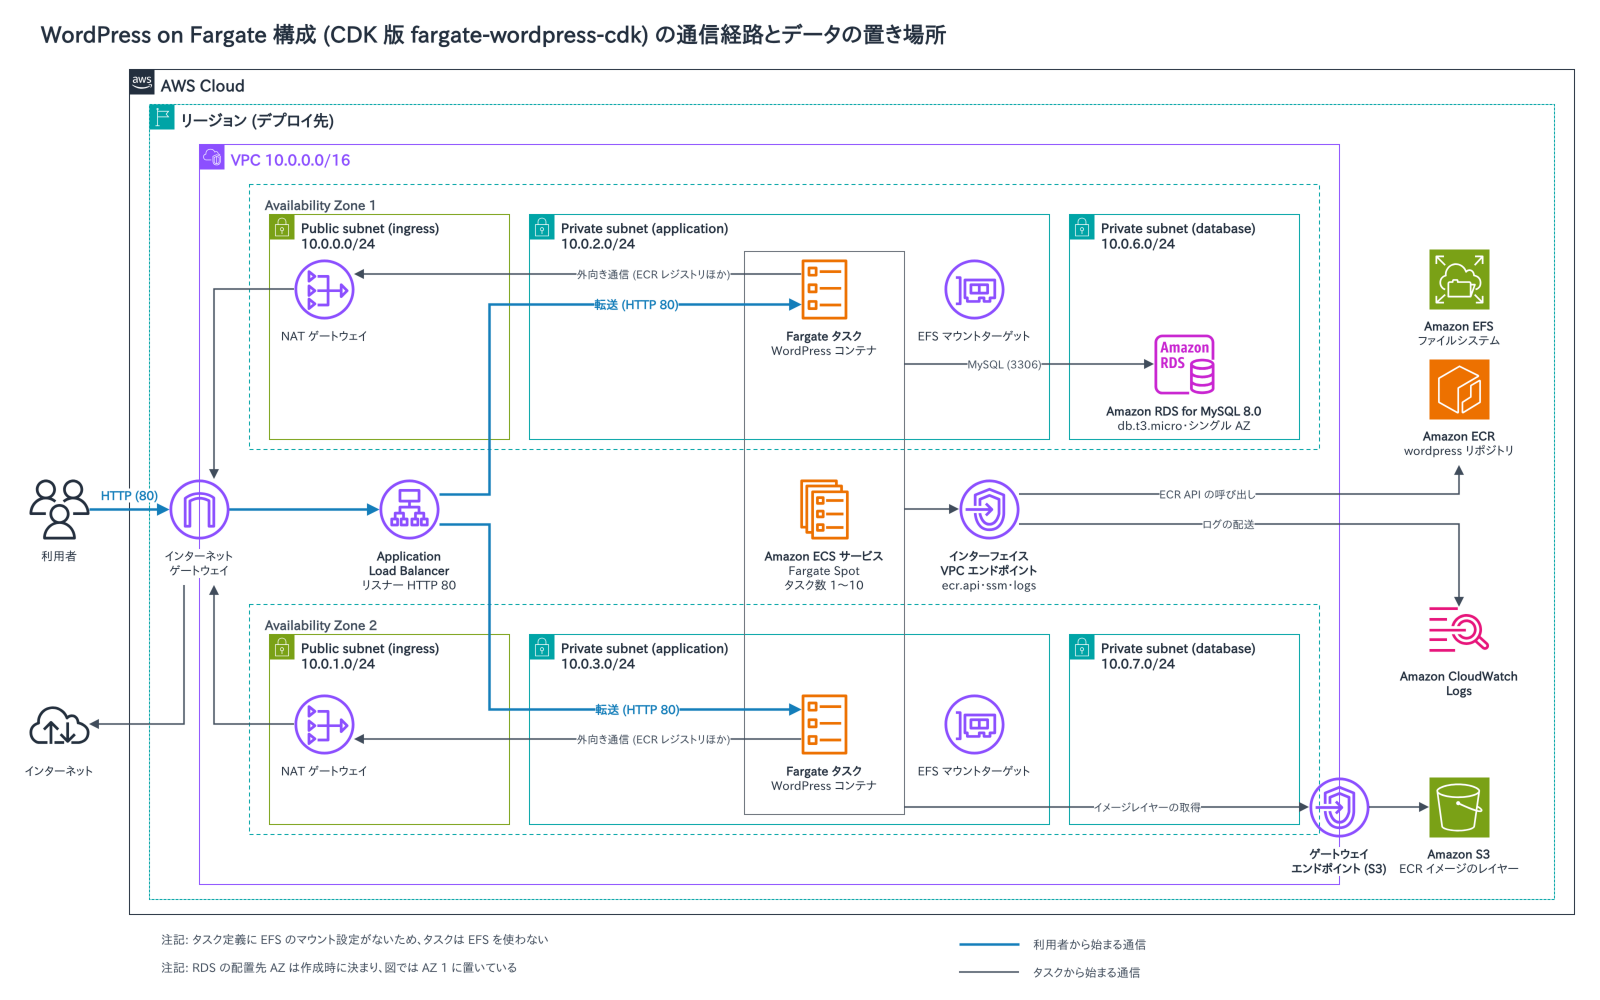
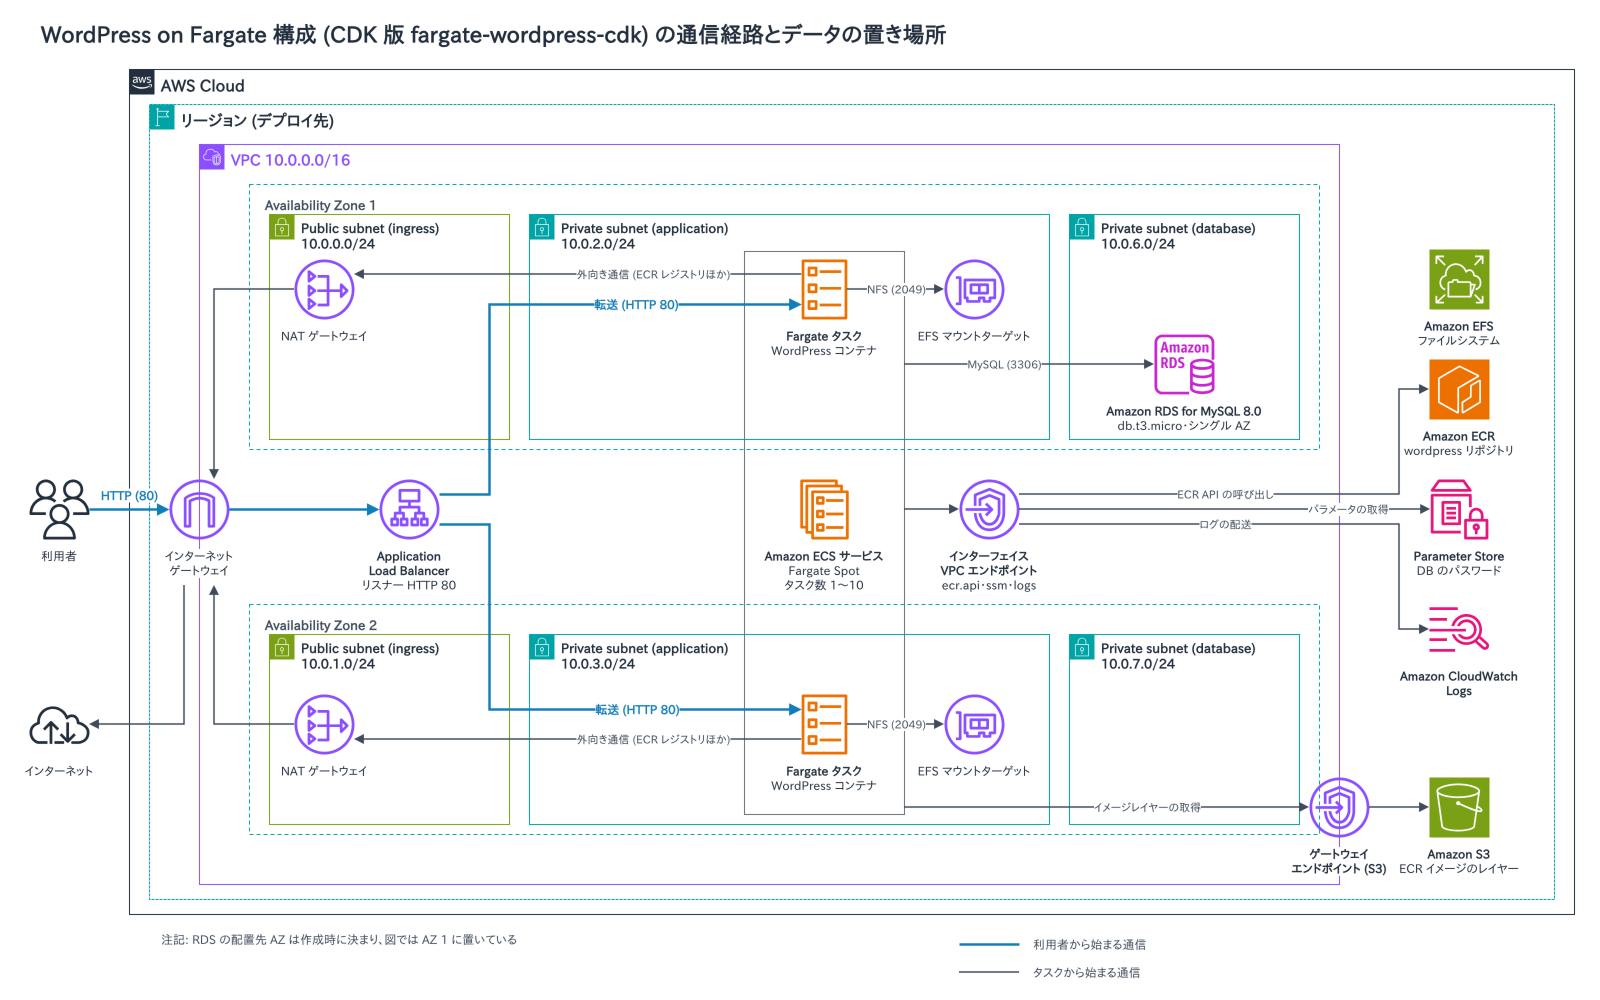
Rewrite README and update architecture diagram

diff --git a/README.md b/README.md
@@ -1,94 +1,140 @@
-# **fargate-wordpress-cdk**
+# fargate-wordpress-cdk
 
-AWS FargateとCDKを使用して、コンテナ化されたWordPress環境を構築するための基盤。
+WordPressをAWS Fargateのコンテナで動かす環境を、AWS CDKで作るリポジトリです。タスクはFargate Spotで動き、CPUとメモリの使用率がそれぞれ50%になるよう、1〜10個の間で増減します。リージョンは東京(ap-northeast-1)を使います。
 
----
-
-## **アーキテクチャ**
+## 構成
 
 ![fargate-wordpress-cdk の構成図](architecture.png)
 
-編集元は [architecture.drawio](architecture.drawio) です。
+図の元データは[architecture.drawio](architecture.drawio)。
 
-### **主要コンポーネント**
-1. **Amazon VPC**:
-   - 2つのアベイラビリティゾーン（AZ）にまたがるプライベートおよびパブリックサブネット。
-   - NAT Gatewayとインターネットゲートウェイを使用。
+| 要素 | 内容 |
+|---|---|
+| VPC | 2つのAZに、ingress(パブリック)、application、filesystem、databaseの4種類のサブネットを置く。filesystemサブネットには何も置いていないため、図では省いている |
+| NATゲートウェイ | AZごとに1つ。applicationサブネットからの外向きの通信(ECRのレジストリなど)が通る |
+| ECS(Fargate) | タスクはapplicationサブネットで動く。Fargate Spotで実行し、最初は1つ |
+| RDS | MySQL 8.0(db.t3.micro)。シングルAZで、databaseサブネットに置く |
+| EFS | WordPressの`wp-content`を、アクセスポイント経由でタスクにマウントする。タスクが増えても、アップロードしたファイルをタスクどうしで共有できる |
+| ALB | HTTP(80)で受け付け、パス`/`でヘルスチェックする。200と302を正常とみなす |
+| DBのパスワード | Systems Manager Parameter StoreのSecureStringに置く。CloudFormationが動的参照でRDSに設定し、タスクはECSのシークレットとして環境変数で受け取る |
+| VPCエンドポイント | ECR API・Systems Manager・CloudWatch Logsのインターフェイスエンドポイントと、S3のゲートウェイエンドポイント。イメージのレイヤーはS3のエンドポイントから取る |
 
-2. **Amazon ECS (Fargate)**:
-   - コンテナ化されたWordPressアプリケーションをホスト。
-   - タスクは2つのAZのプライベートサブネット（application）に配置。
-   - Fargate Spotで実行し、CPU・メモリ使用率50%を目標に1〜10タスクで増減（初期値1）。
+## 前提
 
-3. **Amazon RDS**:
-   - WordPressデータベース（MySQL 8.0、db.t3.micro）。
-   - シングルAZ構成（`multiAz`は未設定）。
+- AWSアカウントと、管理者権限でログインできるAWS CLIのプロファイル
+- Node.js 18以上
+- AWS CLI v2。`aws login`を使うときは2.32.0以上
+- Docker(WordPressのイメージを手元でビルドする。Apple SiliconのMacでも、Fargateに合わせてamd64のイメージを作る)
+- Git
 
-4. **Amazon EFS**:
-   - ファイルシステムとマウントターゲット（applicationサブネット）を作成。
-   - タスク定義にマウント設定がないため、タスクはEFSを使わず、`wp-content`はタスクのエフェメラルストレージに置かれる。
+## 手順
 
-5. **Elastic Load Balancer (ALB)**:
-   - トラフィックをFargateタスクに分散。
-   - HTTP（80）で受け付け、パス`/`でヘルスチェック（200・302を正常と判定）。SSL終端は未設定。
+以降のコマンドは、すべて1つのターミナルで、リポジトリのディレクトリから実行する。
 
-6. **VPCエンドポイント**:
-   - ECR API・Systems Manager・CloudWatch Logsのインターフェイスエンドポイントと、S3のゲートウェイエンドポイント。
-   - レジストリ（`ecr.dkr`）とSecrets Managerのエンドポイントはないため、レジストリへの通信はNAT Gatewayを経由。
+### 1. クローンする
 
-7. **その他**:
-   - **Amazon ECR**: カスタムDockerイメージの保存。
-   - **CloudWatch Logs**: ログ管理とモニタリング。
-
----
-
-## **セットアップ手順**
-
-### **前提条件**
-- AWS CLIがインストールされていること。
-- CDK CLIがインストールされていること。
-- Node.js 16.x以上がインストールされていること。
-
-### **1. リポジトリのクローン**
 ```bash
-git clone https://github.com/<your-repo>/fargate-wordpress-cdk.git
+git clone https://github.com/mamezou/fargate-wordpress-cdk.git
 cd fargate-wordpress-cdk
 ```
 
-### **2. 必要な依存関係をインストール**
+### 2. AWSにログインする
+
+`aws login`でログインする。リージョンを聞かれたら`ap-northeast-1`を入力する。
+
+```bash
+aws login --profile wp-handson
+```
+
+このリポジトリのCDK CLI(2.121.1)は、`aws login`の認証情報を直接読めない。AWS CLIから認証情報を受け取るプロファイル`wp-handson-cdk`を作り、以降はこのプロファイルを使う。
+
+```bash
+aws configure set credential_process "aws configure export-credentials --profile wp-handson --format process" --profile wp-handson-cdk
+aws configure set region ap-northeast-1 --profile wp-handson-cdk
+export AWS_PROFILE=wp-handson-cdk
+export AWS_REGION=ap-northeast-1
+aws sts get-caller-identity
+```
+
+`aws sts get-caller-identity`の結果に自分のアカウントIDが出たら完了。ターミナルを開き直したときは、2つの`export`をもう一度実行する。
+
+AWS SSOを使う人は、`aws login`の代わりに`aws sso login --profile <your-sso-profile>`でログインする。そのうえで、1行目の`aws configure set`にある`--profile wp-handson`(`credential_process`の文字列の中)を`--profile <your-sso-profile>`に置き換えて、上のコマンドを実行する。
+
+### 3. DBのパスワードを作る
+
+DBのパスワードはコードに置かず、Parameter StoreのSecureStringとして先に作る。CloudFormationはデプロイのときに、タスクは起動のときに、このパラメータを読む。
+
+```bash
+aws ssm put-parameter \
+  --name /fargate-wordpress-cdk/db-password \
+  --type SecureString \
+  --value "$(openssl rand -hex 16)"
+```
+
+### 4. デプロイする
+
 ```bash
 npm install
+npx cdk bootstrap   # このアカウントとリージョンで初めてCDKを使うときだけ
+npx cdk deploy --all
 ```
 
-### **3. CDKスタックをデプロイ**
+- 5つのスタック(network、loadbalancer、database、storage、container)を順に作る。全部で20分ほどかかる
+- networkStackとcontainerStackでは、作られるIAMロールとセキュリティグループの一覧が出て`Do you wish to deploy these changes (y/n)?`と聞かれる。`y`を入力する
+- 終わると、次のようにALBのDNS名が出る
+
+  ```
+  loadbalancerStack.LoadBalancerDns = ALB-xxxxxxxxxx.ap-northeast-1.elb.amazonaws.com
+  ```
+
+### 5. WordPressを開く
+
+ブラウザで`http://<LoadBalancerDnsの値>`を開くと、WordPressのインストール画面が出る。インストール画面はURLを知っていれば誰でも開けるので、開いたらすぐにインストールを済ませる。ALBはHTTPだけなので、管理者のパスワードは暗号化されずに送られる。試すときは、ほかで使っていないパスワードにする。
+
+## うまくいかないとき
+
+- ブラウザで開くと503が返るときは、タスクがまだ起動していないか、起動に失敗している。ECSのコンソールでサービスの[イベント]と、停止したタスクの停止理由を見る。コンテナのログは、CloudWatch Logsの`containerStack-`で始まるロググループにある
+- `npx cdk deploy`が`/fargate-wordpress-cdk/db-password`を見つけられずに失敗するときは、手順3のパラメータを作ったか、手順2の`AWS_REGION`が設定されているかを見る
+
+## 削除
+
+起動している間は、NATゲートウェイ(2つ)、ALB、RDS、Fargate、インターフェイスVPCエンドポイント、EFSの料金がかかる。使い終わったら削除する。
+
 ```bash
-cdk deploy --all
+npx cdk destroy --all
+aws ssm delete-parameter --name /fargate-wordpress-cdk/db-password
 ```
 
----
+確認を求められたら`y`を入力する。削除は15分ほどかかる。
 
-## **スタック構成**
+コンテナのログのロググループと、CDKが使うLambda関数のロググループは削除されずに残る。次のコマンドで名前を表示し、1つずつ削除する。
 
-- **network-stack**
-  - VPC、NAT Gateway、セキュリティグループなどを作成します。
-- **lb-stack**
-  - ALBを作成します。
-- **database-stack**
-  - RDSを作成します。
-- **storage-stack**
-  - EFSを作成します。
-- **container-stack**
-  - ECR、ECSクラスター、およびFargateタスクを作成します。
+```bash
+aws logs describe-log-groups --log-group-name-prefix containerStack- --query 'logGroups[].logGroupName' --output text
+aws logs describe-log-groups --log-group-name-prefix /aws/lambda/containerStack- --query 'logGroups[].logGroupName' --output text
+aws logs delete-log-group --log-group-name <表示された名前>
+```
 
----
+## スタック構成
 
-## **今後の改善点**
-1. Secrets ManagerまたはAWS Systems Manager Parameter Storeでクレデンシャル管理を自動化。
-2. CloudFrontとWAFを導入してセキュリティとパフォーマンスを向上。
-3. RDS Proxyを導入して接続管理を効率化。
-4. EFSをタスクにマウントして`wp-content`を共有（タスク定義のボリューム設定と、EFS用セキュリティグループへのNFS（2049）の許可。現状は2049の許可がDB用セキュリティグループに付いている）。
-5. RDSをマルチAZ構成に変更。
-6. ALBにHTTPSリスナーを追加してSSL終端を実施。
-7. `ecr.dkr`とSecrets ManagerのVPCエンドポイントを追加。
+| スタック | 作るもの |
+|---|---|
+| networkStack | VPC、NATゲートウェイ、VPCエンドポイント、セキュリティグループ |
+| loadbalancerStack | ALB、ターゲットグループ |
+| databaseStack | RDS |
+| storageStack | EFS、アクセスポイント |
+| containerStack | ECR、ECSクラスター、タスク定義、サービス、オートスケーリング。手元でビルドしたイメージは、CDKのカスタムリソースがECRにコピーする |
 
----
+`npm test`は、DBのパスワードをParameter Storeから読むこと、タスクが`wp-content`をEFSにマウントすること、NFSの許可がEFS用のセキュリティグループに付いていることを確かめる。
+
+## 改善の候補
+
+| 候補 | 理由 |
+|---|---|
+| タスクを常に2つ以上にし、一部をFargate(Spotでない)で動かす | 今はSpotのタスク1つだけなので、Spotの中断でサイトが止まる |
+| RDSをマルチAZにする | 今はシングルAZで、AZの障害でDBが止まる |
+| ALBにHTTPSのリスナーを足す | 今はHTTPだけで、ログインのパスワードが暗号化されない |
+| WordPressの認証キーとソルトを`wp-config.php`に設定する | `app/entrypoint.sh`はDBの接続情報だけを書き込み、キーとソルトはサンプルのままになる |
+| `ecr.dkr`のVPCエンドポイントを足す | 今はレジストリへの通信がNATゲートウェイを通り、NATの通信料がかかる |
+| WordPressのイメージの版を固定する | `app/Dockerfile`は`wordpress:latest`を使うため、ビルドする時期で版が変わる |
+| filesystemサブネットを使うか、なくす | EFSのマウントターゲットはapplicationサブネットにあり、filesystemサブネットは使っていない |
